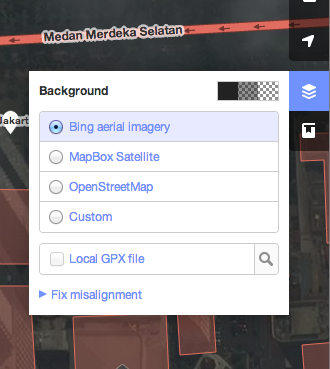
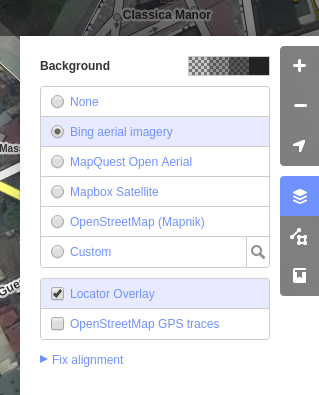
Revisions to iD editor * fixed non-standard capitalization from ID to iD editor references * added instruction on how to use public GPS traces * revised image15 to show new tile providers, and option to use public GPS traces

diff --git a/_posts/en/editing/0300-10-31-id-editor.md b/_posts/en/editing/0300-10-31-id-editor.md
@@ -8,7 +8,7 @@ category: editing
 
 The iD Editor
 =============
-The iD editor is the new (launched 2013) web-based OpenStreetMap editor which makes it easy to edit OpenStreetMap. iD is fast and easy, and  allows mapping from various data sources such as satellite and aerial imageries, GPS, Field Papers or Mapillary.
+The iD editor is the de-facto, browser-based OpenStreetMap editor. iD is fast and easy-to-use, and  allows mapping from various data sources such as satellite and aerial imageries, GPS, Field Papers or Mapillary.
 
 The iD editor is a great way to edit for small and easy changes that don't require the advanced features of JOSM. This chapter demonstrates the basics of editing with iD. 
 
@@ -18,7 +18,7 @@ Starting the iD Editor
 -	Open your Internet browser, and go to the OpenStreetMap website at [http://www.openstreetmap.org](http://www.openstreetmap.org).
 -	**Login** using your OpenStreetMap account
 -	Pan and zoom the map to the area that you wish to edit.
--	Click on the small arrow next to **Edit**. Then click **Edit with ID (in-browser editor)**.
+-	Click on the small arrow next to **Edit**. Then click **Edit with iD (in-browser editor)**.
 
 ![image1][]
 
@@ -81,7 +81,11 @@ Before you start editing, you can change the background layer.
 
 ![image17][]
 
--	You also can **display GPS tracks from your computer** (GPX format). It is very easy - just drag the GPX file into ID editor. 
+-	You can **display GPS tracks from your computer** (GPX format). It is as easy as dragging and dropping the GPX file into iD editor.
+-  You can enable **OpenStreetMap GPS traces** to display public GPS traces available for the area. In the image below, public GPS traces are shown in various colors, indicating the direction of travel.
+
+![osm gps traces][]
+
 -	If there is [imagery offset](/en/editing/aerial-imagery), you can **correct the imagery offset** by clicking Fix Misalignment.
 
 ![image18][]
@@ -206,7 +210,7 @@ Additional Information and Custom Tags
 
 -	Click the plus sign (+) to add keys and values or click the trash icon to delete tags.
 
-ID versus JOSM
+iD versus JOSM
 ---------------
 iD is good for... 
 
@@ -276,4 +280,4 @@ Click on the link for further reading on:
 [image43]: /images/en/editing/id-editor/image43.png
 [image44]: /images/en/editing/id-editor/image44.png
 [image45]: /images/en/editing/id-editor/image45.png
-
+[osm gps traces]: /images/en/editing/id-editor/gps_public.png
